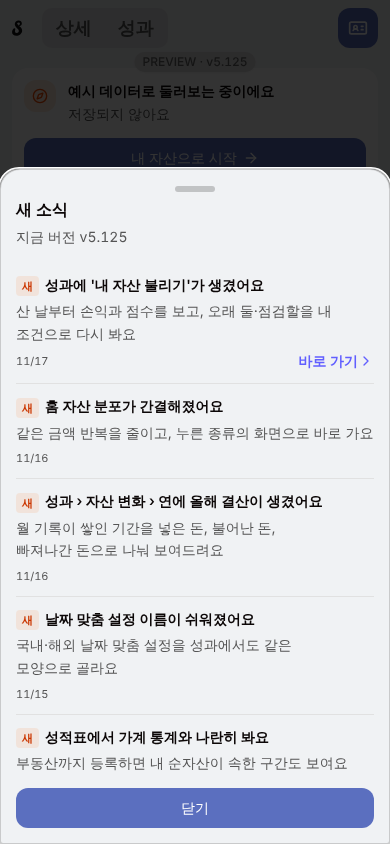
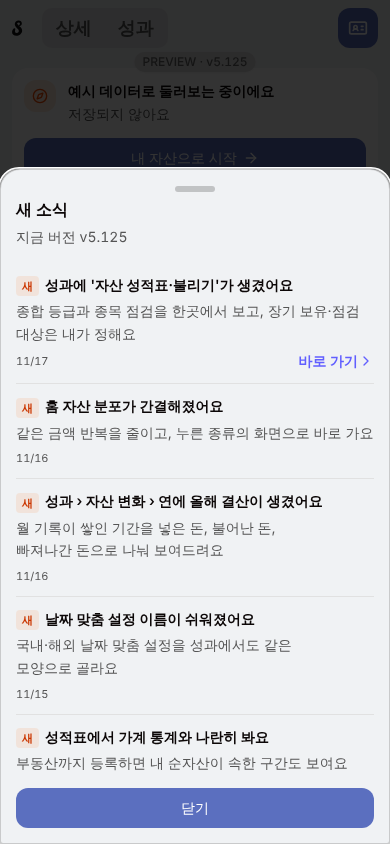
memory: #239 작업 중(중간 저장)

Changed region(s): [[0.0308, 0.3081, 0.9231, 0.4005]]

diff --git a/issues/5.125-239-grow-my-assets/5.125-dev-notes.md b/issues/5.125-239-grow-my-assets/5.125-dev-notes.md
@@ -469,3 +469,7 @@ head **182638b**(커밋 2개: `3797589` 구현, `182638b` 표 폭 조정. 기준
 3. 허브 큰 값은 기록된 최신 등급이라 성적표를 한 번도 열지 않은 기기에서는 `등급 보기`(재계산·요청 없이 홈 트로피와 같은 값).
 4. 1280은 세그먼트가 두 열 위 전체 폭(목업은 1280 별도 배치 미지정 부분 동일).
 5. 손실 0점 눈금은 데모에 음수가 없어 preview 캡처 없음 — 단위 테스트로 확인.
+
+### 6차 ui-review 4건 수정 — head 72a0f0a
+- ① 차례 이유 출처별: 조건 기간 `정한 기간 N개월이 지났어요` / 기본 주기 `점검 주기 N개월이 지났어요` / 장기 보유 `장기 보유로 정한 지 12개월이 지났어요`(`DueReason.date.source`). ② 다음 점검일이 오늘과 11개월 넘게 떨어지면 `YYYY년 M월 D일`(`nextCheckDateText`). ③ 성적표·투입 대비 성과 ⓘ 본문 p 6개 `text-pretty break-keep`(텍스트 diff 0). ④ 데모 시드 `snapshots.daily` @D-1에 `grade`(골드 3.5, 데모 실측 축 값) 1건 — 기존 스냅샷 키·grade 필드, 데모·체험 주입에서만.
+- C134(`tools/dev-r6-grade-c134.mjs`, 32bf4aa = secretasset-nugbzpcwk 와 같은 시각): 순자산·전일 대비·원인 숫자 같음. 바뀐 것 — 홈 순자산 헤더 미니 트로피 `3.5`가 첫 진입부터 보임(데모·체험), 허브 `등급 보기` → `골드 3.5점`. 성적표 Hero: 데모는 계산 3.5 = 시드 → 변화 줄 없음(같음). **체험은 계산 4.0(JSON 시세, 4축 측정) ≠ 시드 3.5 → `▲ 0.5 11/17 대비`가 새로 보이고, 허브·홈 트로피는 성적표를 열기 전까지 3.5**. 데모(실시세)와 체험(JSON 시세)의 계산 등급이 달라 시드 1건으로 둘 다 맞출 수 없음 — 판단 필요 시 체험 값(4.0)으로 바꾸면 데모에 `▼ 0.5`가 생김.
